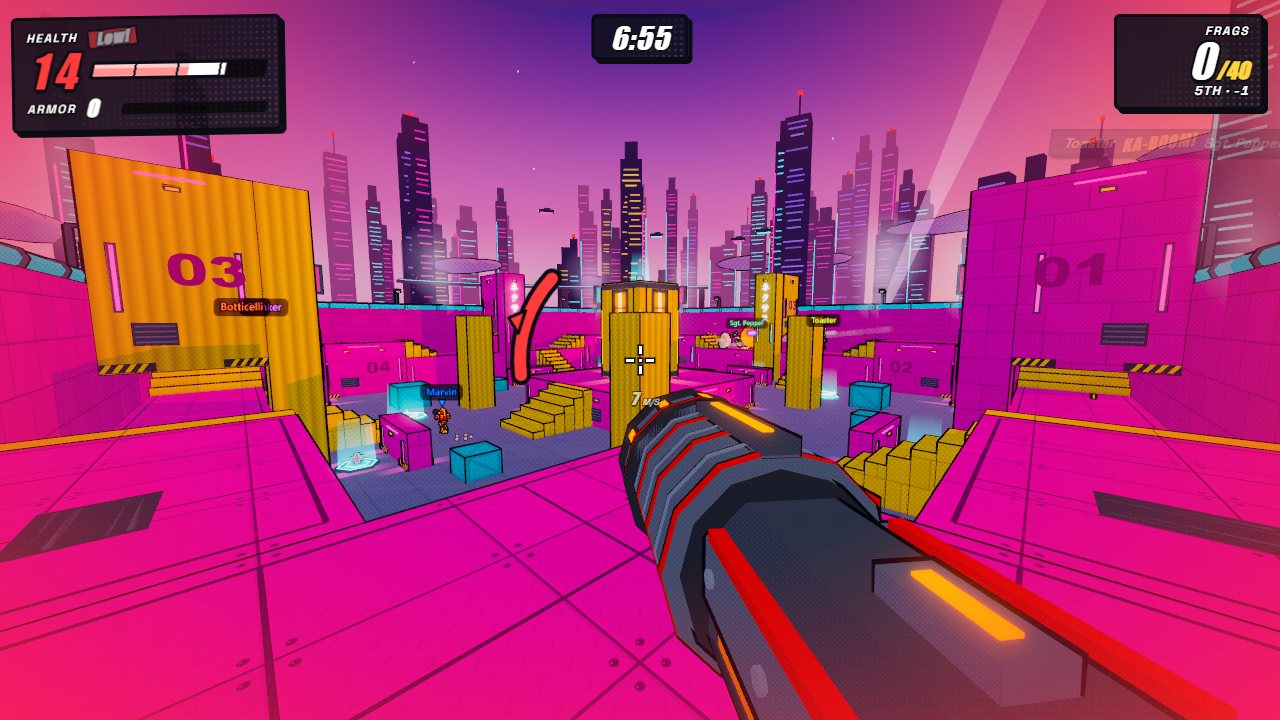
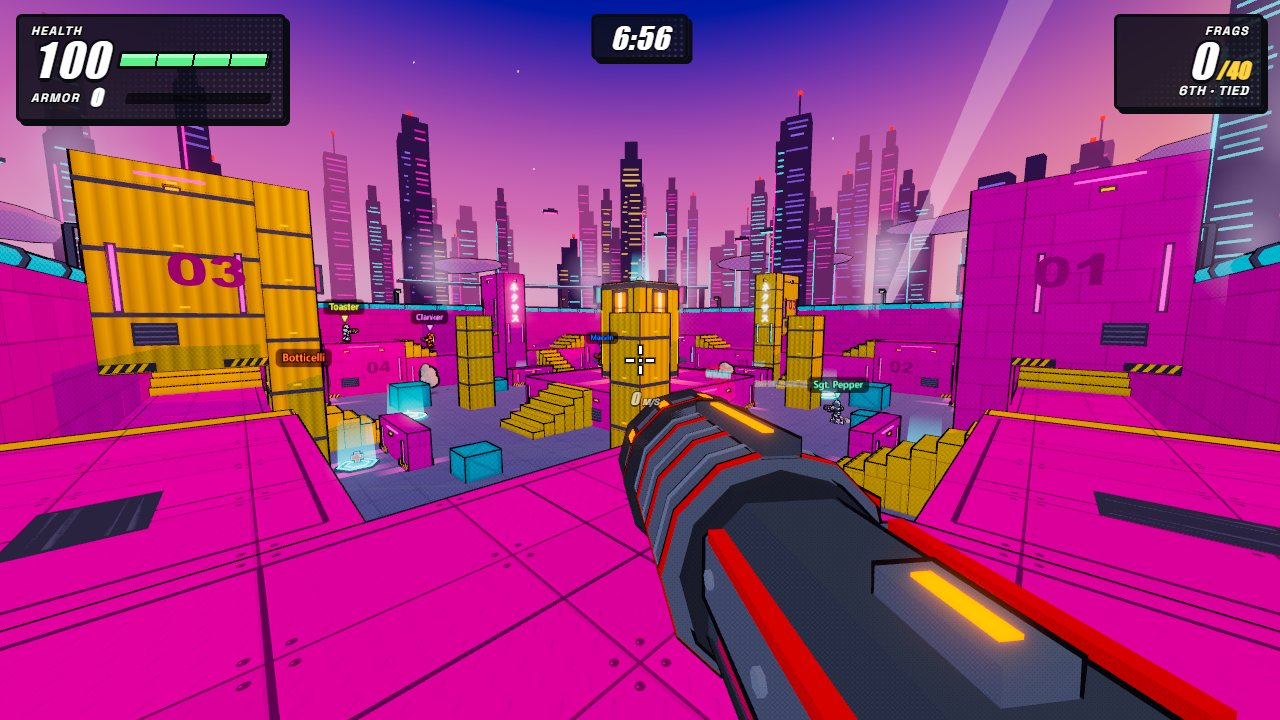
play: Rockets Foundry: steel bands and amber lights on the yellow pillars, tread lines on the stairs

diff --git a/play/frontend/src/games/rockets/arenaDecor.ts b/play/frontend/src/games/rockets/arenaDecor.ts
@@ -459,7 +459,39 @@ function neonTrim(map: MapData, solid: Bucket, glow: Bucket, fade: Bucket, rand:
     if (Math.abs(cx) < 1 && Math.abs(cz) < 1 && (!core || b.max.y > core.max.y)) core = b;
   }
   for (const b of map.boxes) {
-    if (b === core || (b.kind !== 'platform' && b.kind !== 'tower' && b.kind !== 'pillar' && b.kind !== 'ledge')) continue;
+    if (b === core) continue;
+    const bh = b.max.y - b.min.y;
+    // Yellow steel: steps get dark tread lines round their tops; pillars get dark bands and amber lights.
+    if (b.kind === 'stair' && bh < 2.5) {
+      const y = b.max.y + 0.012;
+      const tx = b.max.x - b.min.x;
+      const tz = b.max.z - b.min.z;
+      const cx = (b.min.x + b.max.x) / 2;
+      const cz = (b.min.z + b.max.z) / 2;
+      const line = (w: number, d: number, x: number, z: number) => solid.add(at(new THREE.PlaneGeometry(w, d).rotateX(-Math.PI / 2), x, y, z), 0x3a2e1a);
+      line(tx - 0.08, 0.06, cx, b.min.z + 0.06);
+      line(tx - 0.08, 0.06, cx, b.max.z - 0.06);
+      line(0.06, tz - 0.08, b.min.x + 0.06, cz);
+      line(0.06, tz - 0.08, b.max.x - 0.06, cz);
+      continue;
+    }
+    if (b.kind === 'pillar' && bh >= 4) {
+      const cx = (b.min.x + b.max.x) / 2;
+      const cz = (b.min.z + b.max.z) / 2;
+      const tx = b.max.x - b.min.x;
+      const tz = b.max.z - b.min.z;
+      for (let y = b.min.y + 2.4; y < b.max.y - 0.6; y += 2.6) {
+        if (blockedAt(map.boxes, b, cx, y, b.min.z - 0.2) && blockedAt(map.boxes, b, b.min.x - 0.2, y, cz)) continue;
+        solid.add(at(box(tx + 0.06, 0.2, tz + 0.06), cx, y, cz), 0x34303e);
+        for (const [nx, nz] of [[1, 0], [-1, 0], [0, 1], [0, -1]]) {
+          const ox = cx + nx * (tx / 2 + 0.05);
+          const oz = cz + nz * (tz / 2 + 0.05);
+          if (blockedAt(map.boxes, b, cx + nx * (tx / 2 + 0.3), y + 0.4, cz + nz * (tz / 2 + 0.3))) continue;
+          glow.add(at(box(0.3, 0.09, 0.05), ox, y + 0.35, oz, Math.atan2(nx, nz)), 0xffa640);
+        }
+      }
+    }
+    if (b.kind !== 'platform' && b.kind !== 'tower' && b.kind !== 'pillar' && b.kind !== 'ledge') continue;
     const h = b.max.y - b.min.y;
     if (h < 1.8) continue;
     const color = rand() < 0.22 ? cyan : pink;
